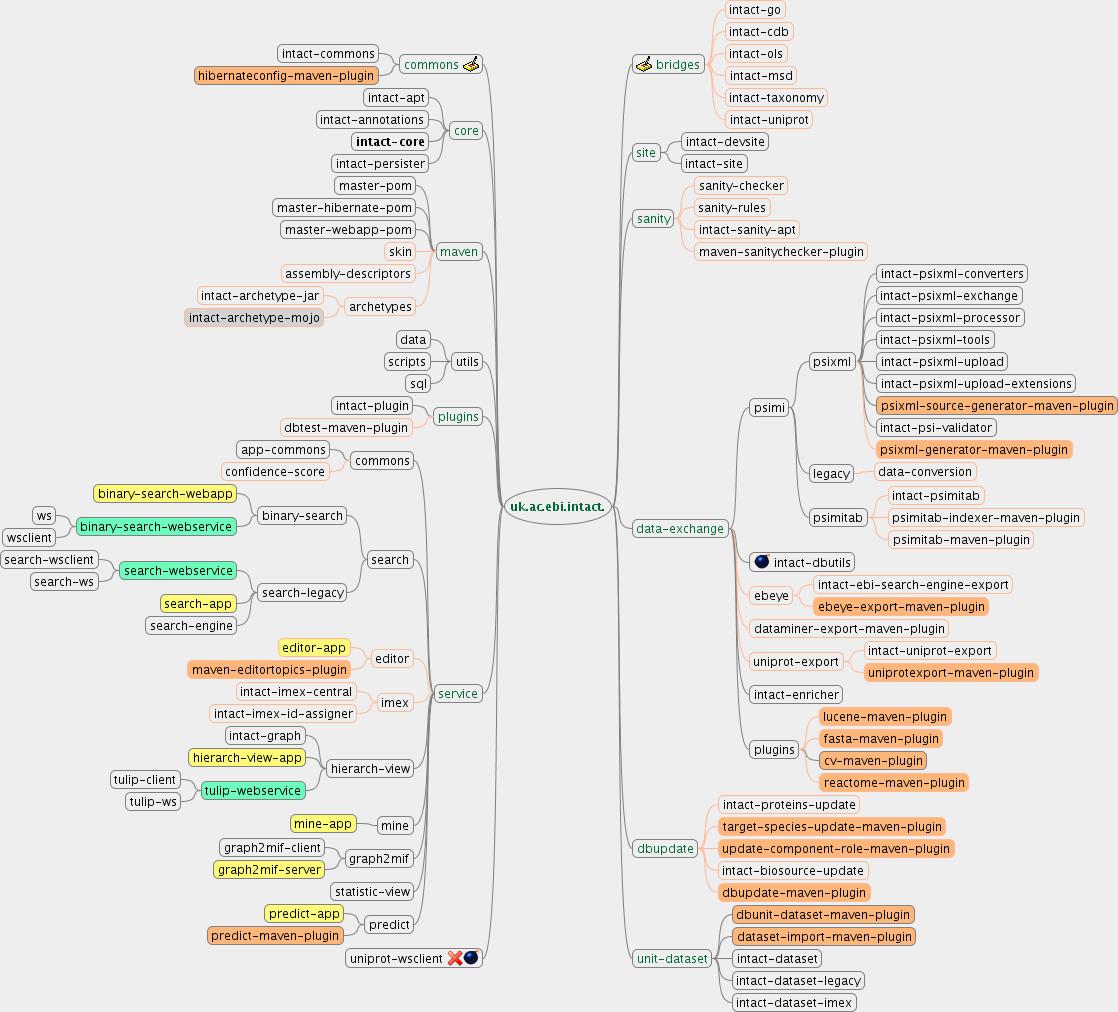
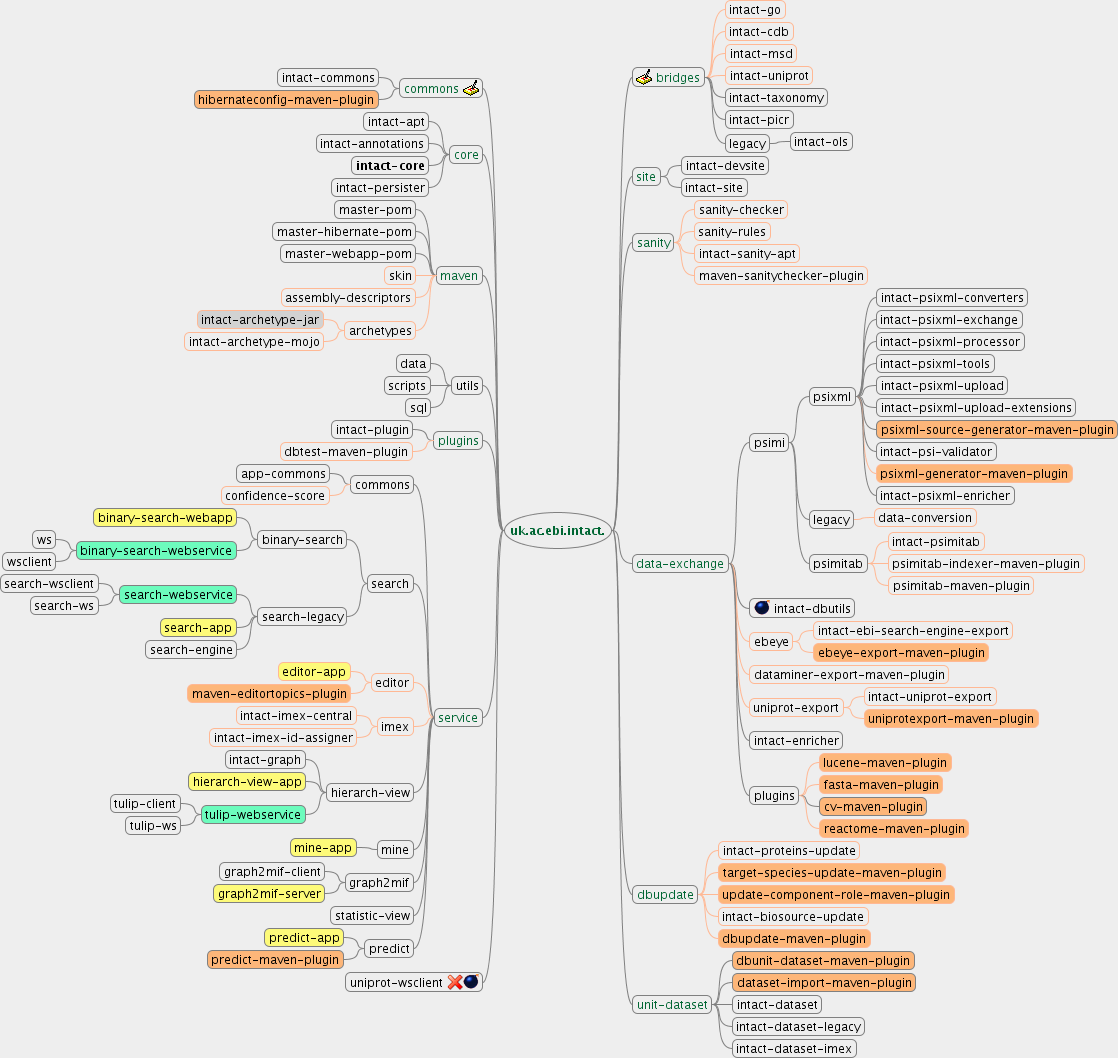
Updated schema

diff --git a/repo/current/intact-modules.mm b/repo/current/intact-modules.mm
@@ -15,21 +15,24 @@
 <edge COLOR="#ffb894" WIDTH="thin"/>
 <font NAME="SansSerif" SIZE="12"/>
 </node>
-<node CREATED="1181219890339" ID="Freemind_Link_991036459" MODIFIED="1181306884377" TEXT="intact-ols">
-<edge COLOR="#ffb894" WIDTH="thin"/>
-<font NAME="SansSerif" SIZE="12"/>
-</node>
 <node CREATED="1181219887550" ID="Freemind_Link_278679673" MODIFIED="1181306884986" TEXT="intact-msd">
-<edge COLOR="#ffb894" WIDTH="thin"/>
-<font NAME="SansSerif" SIZE="12"/>
-</node>
-<node CREATED="1181219908288" ID="Freemind_Link_1699368659" MODIFIED="1181306885546" TEXT="intact-taxonomy">
 <edge COLOR="#ffb894" WIDTH="thin"/>
 <font NAME="SansSerif" SIZE="12"/>
 </node>
 <node CREATED="1181219911055" ID="Freemind_Link_855748950" MODIFIED="1181306886210" TEXT="intact-uniprot">
 <edge COLOR="#ffb894" WIDTH="thin"/>
 <font NAME="SansSerif" SIZE="12"/>
+</node>
+<node CREATED="1181219908288" ID="Freemind_Link_1699368659" MODIFIED="1184856117192" TEXT="intact-taxonomy">
+<edge COLOR="#808080" WIDTH="thin"/>
+<font NAME="SansSerif" SIZE="12"/>
+</node>
+<node CREATED="1184856102864" ID="Freemind_Link_1600959279" MODIFIED="1184856106709" TEXT="intact-picr"/>
+<node CREATED="1184856095206" ID="Freemind_Link_187827585" MODIFIED="1184856098312" TEXT="legacy">
+<node CREATED="1181219890339" ID="Freemind_Link_991036459" MODIFIED="1184856130649" TEXT="intact-ols">
+<edge COLOR="#808080" WIDTH="thin"/>
+<font NAME="SansSerif" SIZE="12"/>
+</node>
 </node>
 </node>
 <node COLOR="#006633" CREATED="1181228032674" ID="Freemind_Link_468857254" MODIFIED="1181231529043" POSITION="right" TEXT="site">
@@ -80,6 +83,7 @@
 <node BACKGROUND_COLOR="#fdb679" CREATED="1181220161503" ID="Freemind_Link_165922696" MODIFIED="1181307055010" TEXT="psixml-generator-maven-plugin">
 <edge COLOR="#ffb894" WIDTH="thin"/>
 </node>
+<node CREATED="1184856160503" ID="Freemind_Link_916476509" MODIFIED="1184856167403" TEXT="intact-psixml-enricher"/>
 </node>
 <node CREATED="1181227979010" ID="Freemind_Link_1088707423" MODIFIED="1181231030310" TEXT="legacy">
 <font NAME="SansSerif" SIZE="12"/>
